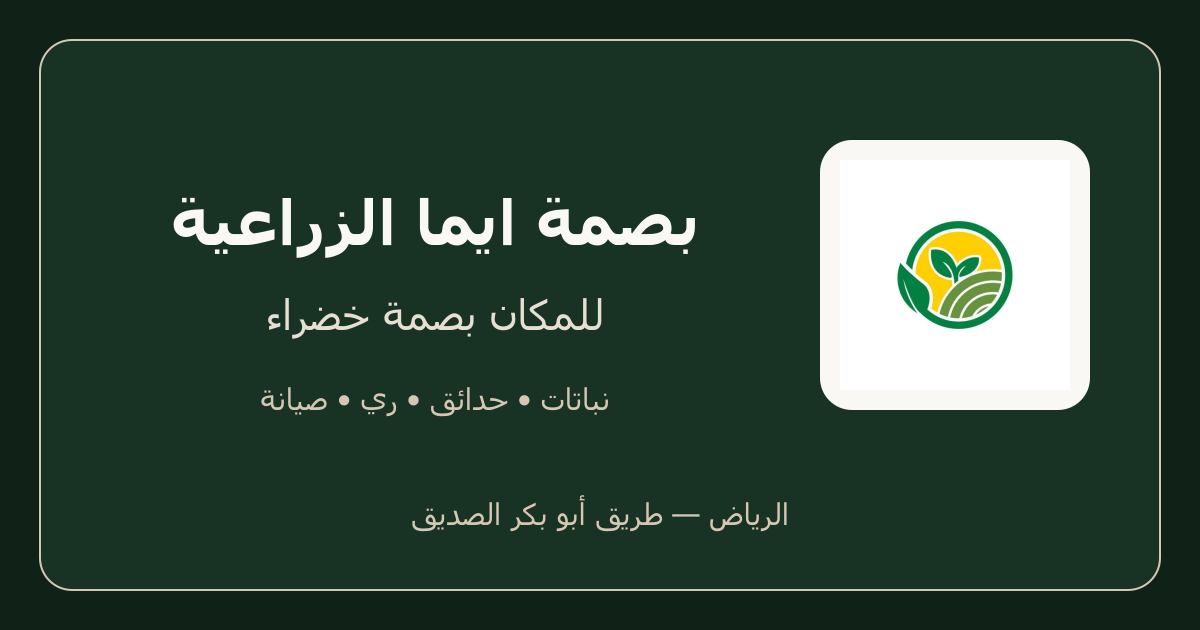
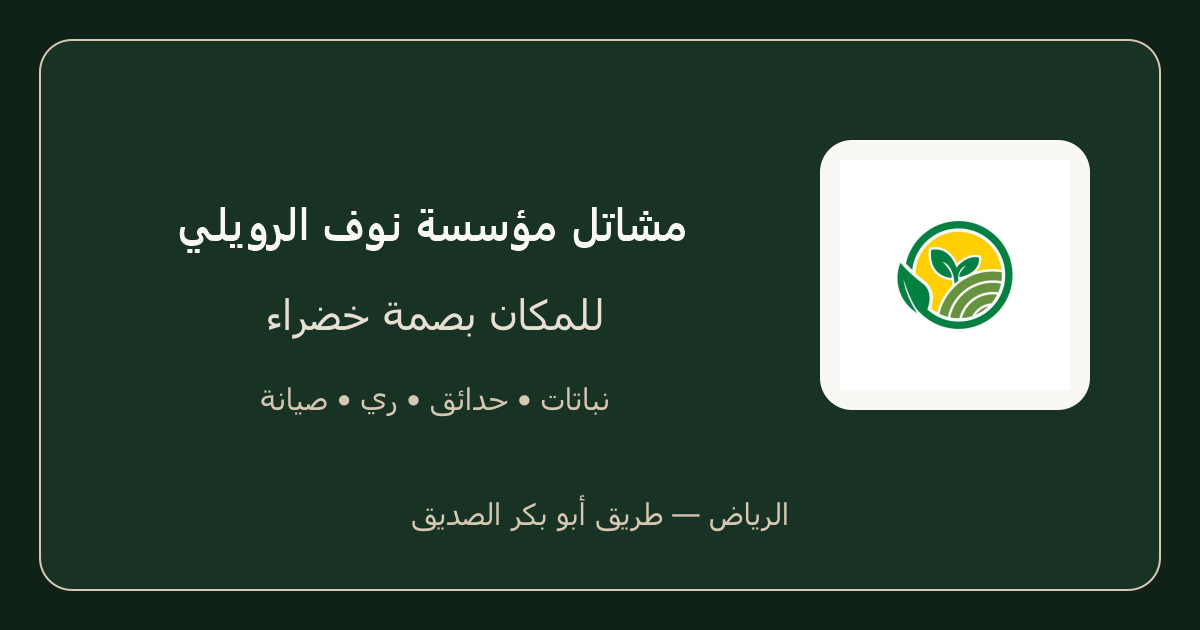
chore(brand): rename business to مشاتل مؤسسة نوف الرويلي across site and docs

Changed region(s): [[0.1233, 0.3016, 0.5858, 0.4222]]

diff --git a/src/content/site-content.ts b/src/content/site-content.ts
@@ -2,8 +2,8 @@ import type { SiteContent } from "@/types";
 
 export const siteContent: SiteContent = {
   "business": {
-    "name": "بصمة ايما الزراعية",
-    "nameShort": "بصمة ايما",
+    "name": "مشاتل مؤسسة نوف الرويلي",
+    "nameShort": "مشاتل مؤسسة نوف الرويلي",
     "type": "مشتل زراعي واستنبات وتنسيق حدائق",
     "location": "الرياض",
     "phone": "+966563340109",
@@ -59,7 +59,7 @@ export const siteContent: SiteContent = {
     }
   ],
   "hero": {
-    "eyebrow": "بصمة ايما الزراعية في الرياض — طريق أبو بكر الصديق",
+    "eyebrow": "مشاتل مؤسسة نوف الرويلي في الرياض — طريق أبو بكر الصديق",
     "headline": "للمكان بصمة خضراء",
     "description": "من زاوية في البيت إلى حديقة تستحق الجلسة، نساعدك على اختيار النباتات التي تلائم مساحتك، ونرتّب معها تفاصيل الزراعة والري والعناية.",
     "primaryCta": {
@@ -77,9 +77,9 @@ export const siteContent: SiteContent = {
     "stats": []
   },
   "about": {
-    "title": "حكاية بصمة ايما",
+    "title": "حكاية مشاتل مؤسسة نوف الرويلي",
     "subtitle": "نبدأ بنبتة… ونرى معها المكان",
-    "description": "بصمة ايما الزراعية مشتل في الرياض يوفر النباتات الداخلية والخارجية، وتنسيق الحدائق، وشبكات الري، والصيانة. نساعدك على اختيار النباتات بحسب إضاءة المكان ومساحته والوقت المتاح للعناية، سواء كانت نبتة للبيت أو تنسيقًا للمكتب أو مشروع حديقة.",
+    "description": "مشاتل مؤسسة نوف الرويلي مشتل في الرياض يوفر النباتات الداخلية والخارجية، وتنسيق الحدائق، وشبكات الري، والصيانة. نساعدك على اختيار النباتات بحسب إضاءة المكان ومساحته والوقت المتاح للعناية، سواء كانت نبتة للبيت أو تنسيقًا للمكتب أو مشروع حديقة.",
     "vision": {
       "title": "رؤيتنا",
       "text": "مساحات سكنية وتجارية في الرياض تجمع جمال النباتات وملاءمتها للموقع، مع ري منظم وعناية تساعد على استدامة الخضرة في مناخ نجد."
@@ -109,7 +109,7 @@ export const siteContent: SiteContent = {
           "تأكيد السعر والتوفر وتفاصيل التوريد قبل الطلب"
         ],
         "cta": "طلب عرض توريد",
-        "whatsappMsg": "مرحبًا بصمة ايما، أحتاج إلى توريد نباتات في الرياض. الأصناف والكميات والموقع: ",
+        "whatsappMsg": "مرحبًا مشاتل مؤسسة نوف الرويلي، أحتاج إلى توريد نباتات في الرياض. الأصناف والكميات والموقع: ",
         "image": "/images/nursery-greenhouse.jpg"
       },
       {
@@ -123,7 +123,7 @@ export const siteContent: SiteContent = {
           "طلب معاينة وتأكيد موعدها وتفاصيلها عبر واتساب"
         ],
         "cta": "طلب معاينة للحديقة",
-        "whatsappMsg": "مرحبًا بصمة ايما، أود طلب معاينة لتنسيق أو تجديد حديقة في الرياض. موقع المساحة ووصفها: ",
+        "whatsappMsg": "مرحبًا مشاتل مؤسسة نوف الرويلي، أود طلب معاينة لتنسيق أو تجديد حديقة في الرياض. موقع المساحة ووصفها: ",
         "image": "/images/service-landscaping.jpg"
       },
       {
@@ -137,7 +137,7 @@ export const siteContent: SiteContent = {
           "فحص الأعطال أو تحسين شبكة موجودة"
         ],
         "cta": "طلب خدمة لشبكة الري",
-        "whatsappMsg": "مرحبًا بصمة ايما، أحتاج إلى تركيب أو صيانة شبكة ري في الرياض. وصف الموقع والاحتياج: ",
+        "whatsappMsg": "مرحبًا مشاتل مؤسسة نوف الرويلي، أحتاج إلى تركيب أو صيانة شبكة ري في الرياض. وصف الموقع والاحتياج: ",
         "image": "/images/service-lighting-irrigation.jpg"
       },
       {
@@ -151,7 +151,7 @@ export const siteContent: SiteContent = {
           "طلب خطة صيانة وتحديد مواعيد الزيارات"
         ],
         "cta": "طلب خطة صيانة",
-        "whatsappMsg": "مرحبًا بصمة ايما، أحتاج إلى صيانة حديقة أو نباتات مكتب في الرياض. وصف الحالة والموقع: ",
+        "whatsappMsg": "مرحبًا مشاتل مؤسسة نوف الرويلي، أحتاج إلى صيانة حديقة أو نباتات مكتب في الرياض. وصف الحالة والموقع: ",
         "image": "/images/hero-garden.jpg"
       }
     ]
@@ -268,7 +268,7 @@ export const siteContent: SiteContent = {
     "description": "تبحث عن نبتة، أو تفكّر في حديقة، أو تحتاج إلى متابعة خضرتك؟ يمكنك زيارة المشتل على طريق أبو بكر الصديق بالرياض أو التواصل معنا مباشرة. نبدأ باحتياجك، ونساعدك على اختيار الخطوة التالية.",
     "primaryCta": {
       "label": "تواصل عبر الواتساب",
-      "href": "https://wa.me/966563340109?text=%D9%85%D8%B1%D8%AD%D8%A8%D8%A7%D9%8B%20%D8%A8%D8%B5%D9%85%D8%A9%20%D8%A7%D9%8A%D9%85%D8%A7%20%D8%A7%D9%84%D8%B2%D8%B1%D8%A7%D8%B9%D9%8A%D8%A9%D8%8C%20%D8%A3%D9%88%D8%AF%20%D8%A7%D9%84%D8%A7%D8%B3%D8%AA%D9%81%D8%B3%D8%A7%D8%B1%20%D9%88%D8%A7%D9%84%D8%AA%D9%88%D8%A7%D8%B5%D9%84%20%D8%A8%D8%AE%D8%B5%D9%88%D8%B5%20%D8%A7%D9%84%D9%86%D8%A8%D8%A7%D8%AA%D8%A7%D8%AA%20%D9%88%D8%AA%D9%86%D8%B3%D9%8A%D9%82%20%D8%A7%D9%84%D8%AD%D8%AF%D8%A7%D8%A6%D9%82."
+      "href": "https://wa.me/966563340109?text=%D9%85%D8%B1%D8%AD%D8%A8%D8%A7%D9%8B%20%D9%85%D8%B4%D8%A7%D8%AA%D9%84%20%D9%85%D8%A4%D8%B3%D8%B3%D8%A9%20%D9%86%D9%88%D9%81%20%D8%A7%D9%84%D8%B1%D9%88%D9%8A%D9%84%D9%8A%D8%8C%20%D8%A3%D9%88%D8%AF%20%D8%A7%D9%84%D8%A7%D8%B3%D8%AA%D9%81%D8%B3%D8%A7%D8%B1%20%D9%88%D8%A7%D9%84%D8%AA%D9%88%D8%A7%D8%B5%D9%84%20%D8%A8%D8%AE%D8%B5%D9%88%D8%B5%20%D8%A7%D9%84%D9%86%D8%A8%D8%A7%D8%AA%D8%A7%D8%AA%20%D9%88%D8%AA%D9%86%D8%B3%D9%8A%D9%82%20%D8%A7%D9%84%D8%AD%D8%AF%D8%A7%D8%A6%D9%82."
     },
     "secondaryCta": {
       "label": "اتصل بنا هاتفياً",
@@ -276,7 +276,7 @@ export const siteContent: SiteContent = {
     }
   },
   "footer": {
-    "description": "بصمة ايما الزراعية | Emma Smile — للمكان بصمة خضراء. نباتات للبيت والخارج، وتنسيق حدائق، وشبكات ري وصيانة في الرياض. طريق أبو بكر الصديق.",
+    "description": "مشاتل مؤسسة نوف الرويلي — للمكان بصمة خضراء. نباتات للبيت والخارج، وتنسيق حدائق، وشبكات ري وصيانة في الرياض. طريق أبو بكر الصديق.",
     "quickLinks": [
       {
         "label": "الرئيسية",
@@ -318,7 +318,7 @@ export const siteContent: SiteContent = {
       "صيانة الحدائق والمكاتب",
       "تنسيق نباتات المكاتب"
     ],
-    "copyright": "جميع الحقوق محفوظة © 2026 بصمة ايما الزراعية | Emma Smile.",
+    "copyright": "جميع الحقوق محفوظة © 2026 مشاتل مؤسسة نوف الرويلي.",
     "agencyCredit": {
       "text": "تصميم :",
       "agency": "وكالة نقرة",
@@ -326,7 +326,7 @@ export const siteContent: SiteContent = {
     }
   },
   "seo": {
-    "title": "بصمة ايما الزراعية | نباتات وتنسيق حدائق في الرياض",
+    "title": "مشاتل مؤسسة نوف الرويلي | نباتات وتنسيق حدائق في الرياض",
     "description": "نباتات داخلية وخارجية، وتنسيق مكاتب وحدائق وشبكات ري وصيانة في الرياض. اختر بحسب مكانك واسأل عن السعر والتوفر، أو زر المشتل على طريق أبو بكر الصديق.",
     "keywords": [
       "نباتات داخلية الرياض",
@@ -335,7 +335,7 @@ export const siteContent: SiteContent = {
       "شبكات ري الرياض",
       "صيانة حدائق",
       "نباتات مكاتب",
-      "بصمة ايما الزراعية"
+      "مشاتل مؤسسة نوف الرويلي"
     ]
   }
 };

diff --git a/src/content/plant-pages.ts b/src/content/plant-pages.ts
@@ -21,8 +21,8 @@ export const plantPages: PlantPageContent[] = [
   {
     slug: "indoor",
     label: "نباتات للبيت",
-    title: "نباتات داخلية للبيت في الرياض | بصمة ايما الزراعية",
-    description: "اختر نباتات داخلية للصالة والمداخل والرفوف بحسب الضوء والمساحة والعناية. تصفح الأصناف واسأل بصمة ايما في الرياض عن الأحجام والسعر والتوفر.",
+    title: "نباتات داخلية للبيت في الرياض | مشاتل مؤسسة نوف الرويلي",
+    description: "اختر نباتات داخلية للصالة والمداخل والرفوف بحسب الضوء والمساحة والعناية. تصفح الأصناف واسأل مشاتل مؤسسة نوف الرويلي في الرياض عن الأحجام والسعر والتوفر.",
     heading: "نباتات داخلية تناسب بيتك وطريقة عنايتك",
     introduction: "نبتة بجوار النافذة، أوراق تتدلى من رف، أو حضور أخضر في زاوية واسعة. نساعدك على اختيار النبات وحجمه بحسب إضاءة البيت والمساحة والوقت الذي تستطيع تخصيصه للعناية.",
     selectionTitle: "ابدأ بمكان النبتة",
@@ -41,14 +41,14 @@ export const plantPages: PlantPageContent[] = [
     care: ["لا تتبع جدول ري واحدًا لكل النباتات. راجع رطوبة التربة والصرف واحتياج الصنف قبل الري.", "اسأل عن طريقة العناية قبل الطلب، وعن ملاءمة النبات إذا كان في المكان أطفال أو حيوانات أليفة."],
     requestTitle: "تحتاج مساعدة في الاختيار؟",
     request: "اذكر المكان والإضاءة والحجم الذي تفكر فيه. الصورة اختيارية؛ وصف المكان يكفي للبدء. نراجع السعر والتوفر والأحجام قبل تأكيد الطلب.",
-    requestMessage: "مرحبًا بصمة ايما، أحتاج إلى ترشيح نبات داخلي للبيت. وصف المكان والإضاءة والحجم المطلوب: ",
+    requestMessage: "مرحبًا مشاتل مؤسسة نوف الرويلي، أحتاج إلى ترشيح نبات داخلي للبيت. وصف المكان والإضاءة والحجم المطلوب: ",
     requestLabel: "طلب ترشيح نبات للبيت",
     catalogCategory: "indoor",
   },
   {
     slug: "outdoor",
     label: "نباتات للخارج",
-    title: "نباتات وأشجار خارجية في الرياض | بصمة ايما الزراعية",
+    title: "نباتات وأشجار خارجية في الرياض | مشاتل مؤسسة نوف الرويلي",
     description: "خيارات أشجار وشجيرات ونباتات خارجية للأحواش والأسوار والمداخل بالرياض. اختر بحسب الشمس ومساحة النمو واطلب تفاصيل المقاسات والتوريد والري.",
     heading: "نباتات وأشجار للخارج تبدأ باختيار الموقع",
     introduction: "ألوان على السور، شجرة عند المدخل، أو ظل حول الجلسة. للخارج احتياجاته من الشمس والتربة والري ومساحة النمو؛ نبدأ بوظيفة النبات وظروف موقعك في الرياض.",
@@ -68,14 +68,14 @@ export const plantPages: PlantPageContent[] = [
     care: ["تختلف الحاجة إلى الري بحسب الصنف وحجم النبات والتربة والشمس. تُراجع العناية بعد النقل والزراعة بحسب الموقع.", "يمكن طلب النباتات وحدها أو مناقشة التوريد والزراعة أو شبكة الري ضمن عرض يوضح نطاق العمل."],
     requestTitle: "نبتة واحدة أم توريد لمشروع؟",
     request: "اذكر الأصناف والأحجام والكميات وموقع التوريد إن كانت معروفة، أو صف احتياج الموقع. يُؤكد التوفر والسعر وتفاصيل النقل والزراعة قبل الطلب.",
-    requestMessage: "مرحبًا بصمة ايما، أحتاج إلى نباتات أو أشجار خارجية في الرياض. وصف الموقع والشمس والأصناف أو الكميات المطلوبة: ",
+    requestMessage: "مرحبًا مشاتل مؤسسة نوف الرويلي، أحتاج إلى نباتات أو أشجار خارجية في الرياض. وصف الموقع والشمس والأصناف أو الكميات المطلوبة: ",
     requestLabel: "طلب ترشيح أو عرض توريد",
     catalogCategory: "outdoor",
   },
   {
     slug: "offices",
     label: "نباتات للمكاتب",
-    title: "تنسيق نباتات المكاتب في الرياض | بصمة ايما الزراعية",
+    title: "تنسيق نباتات المكاتب في الرياض | مشاتل مؤسسة نوف الرويلي",
     description: "تنسيق نباتات وأحواض للمكاتب والاستقبال والمقرات التجارية بالرياض. ناقش الإضاءة والري الذاتي والصيانة، واطلب عرضًا بحسب مساحة مقرّك.",
     heading: "نباتات للمكتب والاستقبال مع عناية واضحة",
     introduction: "استقبال يرحب بالزوار، ومكتب بتفاصيل خضراء، وممر لا تعوق النباتات حركة استخدامه. نناقش النباتات والأحواض وتوزيعها والعناية بها بحسب مساحة مقر العمل وإضاءته.",
@@ -95,7 +95,7 @@ export const plantPages: PlantPageContent[] = [
     care: ["اسأل عن الأحواض ذاتية الري الملائمة للنبات، وسعة الخزان وطريقة المتابعة. المدة الفعلية تتغير بحسب النبات والحوض وظروف المكتب؛ لا توجد مدة موحدة مضمونة.", "للمتابعة الدورية، يوضح العرض عدد الزيارات ونطاق العناية والمواد والأعمال المشمولة، قبل الاتفاق على الصيانة."],
     requestTitle: "طلب عرض لتنسيق المقر",
     request: "اذكر المساحات والإضاءة وعدد النباتات أو الأحواض التقريبي إن كان لديك تصور، وهل تحتاج توريدًا وتنسيقًا أو صيانة فقط. الصور اختيارية.",
-    requestMessage: "مرحبًا بصمة ايما، أود عرضًا لنباتات مقر العمل في الرياض. وصف المساحات والإضاءة وعدد النباتات والاحتياج للتنسيق أو الصيانة: ",
+    requestMessage: "مرحبًا مشاتل مؤسسة نوف الرويلي، أود عرضًا لنباتات مقر العمل في الرياض. وصف المساحات والإضاءة وعدد النباتات والاحتياج للتنسيق أو الصيانة: ",
     requestLabel: "طلب عرض للمكتب",
     catalogCategory: "indoor",
   },

diff --git a/src/components/sections/QuickIntentNavigator.tsx b/src/components/sections/QuickIntentNavigator.tsx
@@ -47,7 +47,7 @@ export function QuickIntentNavigator() {
         "تشكيلة مميزة (سانسيفيريا، زاميا، بوتس، مونستيرا، تين الكمان)",
         "اسأل عن احتياج النبات للضوء والري"
       ],
-      ctaWhatsApp: "مرحباً بصمة ايما، أبحث عن نبتة داخلية تناسب هذه المساحة بالمنزل. سأصف المكان والإضاءة وأرغب في معرفة الخيارات والأحجام المتوفرة.",
+      ctaWhatsApp: "مرحباً مشاتل مؤسسة نوف الرويلي، أبحث عن نبتة داخلية تناسب هذه المساحة بالمنزل. سأصف المكان والإضاءة وأرغب في معرفة الخيارات والأحجام المتوفرة.",
       buttonLabel: "طلب ترشيح نبات للبيت",
       catalogLink: "/plants/indoor",
       catalogLabel: "استعراض أصناف نباتات البيت"
@@ -66,7 +66,7 @@ export function QuickIntentNavigator() {
         "اسأل عن الأحجام والكمية المتاحة قبل الطلب",
         "تحديد أوقات الري المناسبة لحماية الشجر من جفاف الصيف"
       ],
-      ctaWhatsApp: "مرحباً بصمة ايما، أحتاج إلى نباتات وأشجار خارجية لموقعي في الرياض. سأصف الموقع والتعرض للشمس وأرغب في ترشيح أصناف مناسبة وعرض توريد.",
+      ctaWhatsApp: "مرحباً مشاتل مؤسسة نوف الرويلي، أحتاج إلى نباتات وأشجار خارجية لموقعي في الرياض. سأصف الموقع والتعرض للشمس وأرغب في ترشيح أصناف مناسبة وعرض توريد.",
       buttonLabel: "طلب ترشيح نبات للخارج",
       catalogLink: "/plants/outdoor",
       catalogLabel: "استعراض خيارات الخضرة الخارجية"
@@ -85,7 +85,7 @@ export function QuickIntentNavigator() {
         "تنسيق راقٍ بمقرات الأعمال يقلل المتابعة اليومية",
         "عقود صيانة شهرية وزيارات دورية للشركات بالرياض"
       ],
-      ctaWhatsApp: "مرحباً بصمة ايما، أرغب في تنسيق النباتات لمقر العمل بالرياض، ومعرفة خيارات الأحواض ذاتية الري وعقود الصيانة الشهرية.",
+      ctaWhatsApp: "مرحباً مشاتل مؤسسة نوف الرويلي، أرغب في تنسيق النباتات لمقر العمل بالرياض، ومعرفة خيارات الأحواض ذاتية الري وعقود الصيانة الشهرية.",
       buttonLabel: "طلب تنسيق نباتات المكتب",
       catalogLink: "/plants/offices",
       catalogLabel: "خيارات نباتات المكاتب"
@@ -105,7 +105,7 @@ export function QuickIntentNavigator() {
         "شبكات ري وجدولة بحسب توزيع النباتات",
         "عرض يوضح نطاق العمل والسعر وشروط الضمان إن كان مقدمًا"
       ],
-      ctaWhatsApp: "مرحباً بصمة ايما، أرغب في طلب معاينة لتنسيق أو تجديد حديقة في الرياض. وصف الموقع والمساحة: ",
+      ctaWhatsApp: "مرحباً مشاتل مؤسسة نوف الرويلي، أرغب في طلب معاينة لتنسيق أو تجديد حديقة في الرياض. وصف الموقع والمساحة: ",
       buttonLabel: "طلب معاينة للحديقة",
       catalogLink: "/services",
       catalogLabel: "تفاصيل خدمات تنسيق الحدائق"
@@ -264,7 +264,7 @@ export function QuickIntentNavigator() {
           </div>
 
           <a
-            href={`https://wa.me/966563340109?text=${encodeURIComponent("مرحبًا بصمة ايما، أود ترشيح نبات بناءً على وصف المكان والإضاءة: ")}`}
+            href={`https://wa.me/966563340109?text=${encodeURIComponent("مرحبًا مشاتل مؤسسة نوف الرويلي، أود ترشيح نبات بناءً على وصف المكان والإضاءة: ")}`}
             target="_blank"
             rel="noopener noreferrer"
             className="inline-flex items-center gap-2 px-6 py-3.5 rounded-xl bg-[#183324] hover:bg-[#102117] text-white font-bold text-sm sm:text-sm shrink-0 shadow-md transition-all active:scale-98"

diff --git a/src/components/sections/PlantCatalog.tsx b/src/components/sections/PlantCatalog.tsx
@@ -95,7 +95,7 @@ export function PlantCatalog({ initialCategory = "all", origin }: { initialCateg
                 <h2 className="font-bold text-base text-[#102117] mb-2">{plant.name}</h2>
                 <ImageCreditCaption credit={plant.imageCredit} />
                 <p className="text-sm text-[#424944] mb-4">{plant.alsoOutdoor?"اختيار للمواقع الداخلية أو الخارجية المناسبة":plant.type==="indoor"?"نبات داخلي — راجع احتياجه للإضاءة والري":"نبات خارجي — راجع ظروف الشمس ومساحة النمو"}</p>
-                <a id={`plant-request-${plant.type}-${plant.id}`} href={`${siteContent.business.whatsapp}?text=${encodeURIComponent(`مرحبًا بصمة ايما، أود معرفة سعر وتوفر وأحجام ${plant.name}. الكمية المطلوبة: `)}`} target="_blank" rel="noopener noreferrer"
+                <a id={`plant-request-${plant.type}-${plant.id}`} href={`${siteContent.business.whatsapp}?text=${encodeURIComponent(`مرحبًا مشاتل مؤسسة نوف الرويلي، أود معرفة سعر وتوفر وأحجام ${plant.name}. الكمية المطلوبة: `)}`} target="_blank" rel="noopener noreferrer"
                   aria-label={`استفسار عن السعر والتوفر: ${plant.name}`} className="inline-flex gap-2 items-center justify-center bg-[#e9f2ec] text-[#183324] rounded-xl px-3 py-3 text-sm font-bold mt-auto"><MessageCircle size={16} aria-hidden />السعر والتوفر</a>
               </div>
             </li>)}
@@ -104,7 +104,7 @@ export function PlantCatalog({ initialCategory = "all", origin }: { initialCateg
           <section className="bg-[#183324] text-white rounded-2xl p-6 sm:p-8 my-10" aria-labelledby="bulk-heading">
             <h2 id="bulk-heading" className="text-xl sm:text-2xl font-bold mb-3">تحتاج كميات لمشروع؟</h2>
             <p className="text-[#e8dfd3] mb-5">أرسل أسماء النباتات والأحجام والكميات وموقع التوريد في الرياض لطلب عرض سعر يناسب المشروع.</p>
-            <a href={`${siteContent.business.whatsapp}?text=${encodeURIComponent("مرحبًا بصمة ايما، أود طلب عرض سعر لكميات نباتات لمشروع في الرياض. قائمة الأصناف والأحجام والكميات والموقع: ")}`} target="_blank" rel="noopener noreferrer" className="inline-flex items-center gap-2 bg-white text-[#183324] font-bold rounded-xl px-5 py-3"><MessageCircle size={18} aria-hidden />طلب عرض سعر للكميات</a>
+            <a href={`${siteContent.business.whatsapp}?text=${encodeURIComponent("مرحبًا مشاتل مؤسسة نوف الرويلي، أود طلب عرض سعر لكميات نباتات لمشروع في الرياض. قائمة الأصناف والأحجام والكميات والموقع: ")}`} target="_blank" rel="noopener noreferrer" className="inline-flex items-center gap-2 bg-white text-[#183324] font-bold rounded-xl px-5 py-3"><MessageCircle size={18} aria-hidden />طلب عرض سعر للكميات</a>
           </section>
         </section>
       </main>

diff --git a/src/content/page-info.ts b/src/content/page-info.ts
@@ -1,17 +1,17 @@
 export const corePages = {
   home: {
     path: "/", label: "الرئيسية",
-    title: "بصمة ايما الزراعية | نباتات وتنسيق حدائق في الرياض",
+    title: "مشاتل مؤسسة نوف الرويلي | نباتات وتنسيق حدائق في الرياض",
     description: "نباتات داخلية وخارجية، وتنسيق مكاتب وحدائق وشبكات ري وصيانة في الرياض. اختر بحسب مكانك واسأل عن السعر والتوفر، أو زر المشتل على طريق أبو بكر الصديق.",
   },
   catalog: {
     path: "/plants", label: "دليل النباتات",
-    title: "دليل النباتات الداخلية والخارجية | بصمة ايما الزراعية بالرياض",
+    title: "دليل النباتات الداخلية والخارجية | مشاتل مؤسسة نوف الرويلي بالرياض",
     description: "ابحث عن النباتات الداخلية والخارجية بالعربية أو بالأسماء المتداولة. شاهد صورًا توضيحية واسأل عن الأصناف والأحجام والسعر والتوفر قبل الطلب.",
   },
   services: {
     path: "/services", label: "خدمات الحدائق",
-    title: "تنسيق الحدائق والري والصيانة بالرياض | بصمة ايما الزراعية",
+    title: "تنسيق الحدائق والري والصيانة بالرياض | مشاتل مؤسسة نوف الرويلي",
     description: "توريد نباتات، وتصميم وتنفيذ وتجديد حدائق، وتركيب وصيانة شبكات ري، وصيانة حدائق ومكاتب في الرياض. اختر خدمة واحدة أو اطلب عرضًا لمشروع متكامل.",
   },
 } as const;

diff --git a/src/components/sections/PlantLanding.tsx b/src/components/sections/PlantLanding.tsx
@@ -29,7 +29,7 @@ export function PlantLanding({ page }: { page: PlantPageContent }) {
             <div className="relative h-52 bg-[#e9f2ec]"><PlantImage src={plant?.image} name={item.name} sizes="(min-width: 1216px) 273px, (min-width: 1024px) calc(25vw - 32px), (min-width: 768px) calc(50vw - 42px), (min-width: 640px) calc(50vw - 30px), calc(100vw - 40px)" /></div>
             <div className="p-5 flex flex-col flex-1"><h3 className="text-lg font-bold text-[#102117] mb-2">{item.name}</h3>
               <ImageCreditCaption credit={plant?.imageCredit} /><p className="text-[#424944] mb-5">{item.description}</p>
-              <a href={`${siteContent.business.whatsapp}?text=${encodeURIComponent(`مرحبًا بصمة ايما، أود معرفة سعر وتوفر وأحجام ${item.name}. الكمية المطلوبة: `)}`} target="_blank" rel="noopener noreferrer" aria-label={`السعر والتوفر: ${item.name}`} className="mt-auto bg-[#e9f2ec] text-[#183324] text-center font-bold rounded-xl px-3 py-3">السعر والتوفر</a>
+              <a href={`${siteContent.business.whatsapp}?text=${encodeURIComponent(`مرحبًا مشاتل مؤسسة نوف الرويلي، أود معرفة سعر وتوفر وأحجام ${item.name}. الكمية المطلوبة: `)}`} target="_blank" rel="noopener noreferrer" aria-label={`السعر والتوفر: ${item.name}`} className="mt-auto bg-[#e9f2ec] text-[#183324] text-center font-bold rounded-xl px-3 py-3">السعر والتوفر</a>
             </div>
           </li>;
         })}

diff --git a/src/lib/seo.ts b/src/lib/seo.ts
@@ -4,14 +4,14 @@ import { corePages } from "@/content/page-info";
 import { readSiteConfig, siteUrl, type SiteConfig } from "@/lib/site-config";
 
 export function pageMetadata(page: { title: string; description: string; path: string }, config: SiteConfig = readSiteConfig()): Metadata {
-  const image = { url: "/images/social-card.png", width: 1200, height: 630, alt: "بصمة ايما الزراعية — نباتات وخدمات حدائق في الرياض" };
+  const image = { url: "/images/social-card.png", width: 1200, height: 630, alt: "مشاتل مؤسسة نوف الرويلي — نباتات وخدمات حدائق في الرياض" };
   return {
     title: page.title,
     description: page.description,
     metadataBase: new URL(config.origin ?? "http://127.0.0.1:3000"),
     alternates: config.origin ? { canonical: siteUrl(page.path, config.origin) } : undefined,
     robots: { index: config.indexable, follow: true },
-    openGraph: { type: "website", locale: "ar_SA", siteName: "بصمة ايما الزراعية", title: page.title, description: page.description,
+    openGraph: { type: "website", locale: "ar_SA", siteName: "مشاتل مؤسسة نوف الرويلي", title: page.title, description: page.description,
       ...(config.origin ? { url: siteUrl(page.path, config.origin) } : {}), images: [image] },
     twitter: { card: "summary_large_image", title: page.title, description: page.description, images: [image.url] },
   };

diff --git a/src/components/sections/Showcase.tsx b/src/components/sections/Showcase.tsx
@@ -63,7 +63,7 @@ export function Showcase() {
             شاهد كيف نحول المساحات إلى <span className="text-emerald-700">تحف طبيعية</span>
           </h2>
           <p className="text-base md:text-lg text-emerald-900/80 prose-ar max-w-2xl mx-auto">
-            نماذج واقعية من مشاريع نفذها فريق بصمة ايما الزراعية لعملائنا في مختلف أحياء الرياض.
+            نماذج واقعية من مشاريع نفذها فريق مشاتل مؤسسة نوف الرويلي لعملائنا في مختلف أحياء الرياض.
           </p>
         </div>
 
@@ -138,7 +138,7 @@ export function Showcase() {
             <div className="pt-4 border-t border-emerald-100">
               <a
                 href={`https://wa.me/966563340109?text=${encodeURIComponent(
-                  `مرحباً بصمة ايما، شاهدت مشروع (${currentProject.title} - ${currentProject.location}) وأود تصميم حديقة مشابهة لمنزلي.`
+                  `مرحباً مشاتل مؤسسة نوف الرويلي، شاهدت مشروع (${currentProject.title} - ${currentProject.location}) وأود تصميم حديقة مشابهة لمنزلي.`
                 )}`}
                 target="_blank"
                 rel="noopener noreferrer"

diff --git a/src/components/sections/Services.tsx b/src/components/sections/Services.tsx
@@ -127,7 +127,7 @@ export function Services() {
           </div>
 
           <a
-            href="https://wa.me/966563340109?text=%D9%85%D8%B1%D8%AD%D8%A8%D8%A7%D9%8B%20%D8%A8%D8%B5%D9%85%D8%A9%20%D8%A7%D9%8A%D9%85%D8%A7%D8%8C%20%D8%A3%D9%88%D8%AF%20%D8%A7%D9%84%D8%A7%D8%B3%D8%AA%D9%81%D8%B3%D8%A7%D8%B1%20%D8%B9%D9%86%20%D8%AA%D9%81%D8%A7%D8%B5%D9%8A%D9%84%20%D8%A7%D9%84%D8%B6%D9%85%D8%A7%D9%86%20%D9%88%D8%A7%D9%84%D8%AA%D9%86%D9%81%D9%8A%D8%B0."
+            href="https://wa.me/966563340109?text=%D9%85%D8%B1%D8%AD%D8%A8%D8%A7%D9%8B%20%D9%85%D8%B4%D8%A7%D8%AA%D9%84%20%D9%85%D8%A4%D8%B3%D8%B3%D8%A9%20%D9%86%D9%88%D9%81%20%D8%A7%D9%84%D8%B1%D9%88%D9%8A%D9%84%D9%8A%D8%8C%20%D8%A3%D9%88%D8%AF%20%D8%A7%D9%84%D8%A7%D8%B3%D8%AA%D9%81%D8%B3%D8%A7%D8%B1%20%D8%B9%D9%86%20%D8%AA%D9%81%D8%A7%D8%B5%D9%8A%D9%84%20%D8%A7%D9%84%D8%B6%D9%85%D8%A7%D9%86%20%D9%88%D8%A7%D9%84%D8%AA%D9%86%D9%81%D9%8A%D8%B0."
             target="_blank"
             rel="noopener noreferrer"
             className="px-5 py-3 rounded-xl bg-[#9c4c2d] hover:bg-[#7f3d25] text-white text-sm font-bold shrink-0 transition-colors"

diff --git a/src/components/ui/MapPreview.tsx b/src/components/ui/MapPreview.tsx
@@ -6,8 +6,8 @@ export function MapPreview({ src, address }: { src: string; address?: string }) 
       <iframe
         id="nursery-map"
         src={src}
-        title="موقع مشتل بصمة إيما الزراعية على طريق أبو بكر الصديق بالرياض"
-        aria-label={address ? `خريطة موقع مشتل بصمة إيما الزراعية: ${address}` : "خريطة موقع مشتل بصمة إيما الزراعية"}
+        title="موقع مشاتل مؤسسة نوف الرويلي على طريق أبو بكر الصديق بالرياض"
+        aria-label={address ? `خريطة موقع مشاتل مؤسسة نوف الرويلي: ${address}` : "خريطة موقع مشاتل مؤسسة نوف الرويلي"}
         className="w-full h-full flex-1 border-0 rounded-2xl"
         style={{ border: 0 }}
         allowFullScreen

diff --git a/src/components/layout/Footer.tsx b/src/components/layout/Footer.tsx
@@ -21,7 +21,7 @@ return (
               <div className="relative w-8 h-8 rounded-lg overflow-hidden bg-white/10 p-1 border border-white/20 shrink-0">
                 <Image
                   src="/images/logo.png"
-                  alt="شعار بصمة ايما الزراعية"
+                  alt="شعار مشاتل مؤسسة نوف الرويلي"
                   fill
                   sizes="32px"
                   className="object-contain"
@@ -126,7 +126,7 @@ return (
               <span>جميع الحقوق محفوظة</span>
               <span>&copy;</span>
               <span dir="ltr">2026</span>
-              <span className="text-[#faf8f5] font-medium">{business.name} | Emma Smile.</span>
+              <span className="text-[#faf8f5] font-medium">{business.name}.</span>
             </p>
 
             {footer.agencyCredit && (

diff --git a/src/components/sections/Hero.tsx b/src/components/sections/Hero.tsx
@@ -45,7 +45,7 @@ export function Hero() {
 
             {/* Scope Summary */}
             <p className="text-sm sm:text-sm text-[#d6c7b5]/80 leading-relaxed mb-8 max-w-xl">
-              <strong>بصمة ايما الزراعية في الرياض:</strong> نباتات داخلية وخارجية، وتنسيق حدائق منزلية وتجارية، وشبكات ري ذكية وصيانة دورية.
+              <strong>مشاتل مؤسسة نوف الرويلي في الرياض:</strong> نباتات داخلية وخارجية، وتنسيق حدائق منزلية وتجارية، وشبكات ري ذكية وصيانة دورية.
             </p>
 
             {/* Primary Action Card */}
